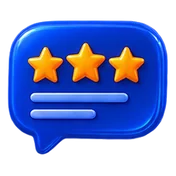
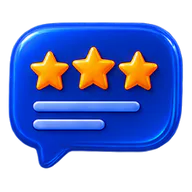
Add glyph illustrations: empty states, bookings, listings, AI features, property types
63 new webp glyph illustrations for empty states (inbox, calendar,
payments, search, etc), booking statuses, listing states, AI feature
icons, and property type icons. Updated glyphs registry.

diff --git a/apps/web/src/design-system/icons/glyphs.ts b/apps/web/src/design-system/icons/glyphs.ts
@@ -31,22 +31,25 @@ export const GLYPHS = [
 export type GlyphName = (typeof GLYPHS)[number];
 
 /*
- * A SMALL WEBP FOR THE PLAIN IMAGE SPOTS (performance audit, 7 November
- * 2026). A plain `<img>` gets no resizing from the image optimiser, so the
- * listing page's empty reviews state fetched the whole 249px PNG (57.6 KB)
- * to draw it at 88px. A glyph named here also ships as a 176px WebP (88px at
- * twice the density, 7.8 KB), which `glyphSrc` hands out. `glyphMasterSrc`
- * stays the full PNG for `Icon3D`, whose optimiser cuts its own sizes and
- * may draw a glyph at 144px or more.
+ * A SMALL WEBP FOR THE PLAIN IMAGE SPOTS (performance audit, 7 and 8
+ * November 2026). A plain `<img>` gets no resizing from the image optimiser,
+ * so the listing page's empty reviews state fetched the whole 249px PNG
+ * (57.6 KB) to draw it at 88px, and every other glyph in an empty state, a
+ * tracker or the in-app banner did the same (55 to 124 KB each, drawn at 24
+ * to 96px). Every glyph now also ships as a 192px WebP (96px, the largest
+ * plain spot, at twice the density; 651 KB for all 64 against 4.98 MB of
+ * PNG, about 10 KB each, near lossless against the PNG scaled to 192px),
+ * which `glyphSrc` hands out. `glyphMasterSrc` stays the full PNG for
+ * `Icon3D`, whose optimiser cuts its own sizes and may draw a glyph at 144px
+ * or more; the PNGs stay for it and for anything outside this app that
+ * names them. Both held by `glyph-files.test.ts`.
  */
-const SMALL_WEBP: ReadonlySet<GlyphName> = new Set<GlyphName>(["empty-reviews"]);
-
 export function glyphMasterSrc(name: GlyphName): string {
   return `/brand/glyphs/${name}.png`;
 }
 
 export function glyphSrc(name: GlyphName): string {
-  return SMALL_WEBP.has(name) ? `/brand/glyphs/${name}.webp` : glyphMasterSrc(name);
+  return `/brand/glyphs/${name}.webp`;
 }
 
 /** A listing's status as its glyph. Unknown statuses draw nothing. */

diff --git a/apps/web/src/design-system/icons/glyph-files.test.ts b/apps/web/src/design-system/icons/glyph-files.test.ts
@@ -1,0 +1,31 @@
+import { existsSync, readFileSync, statSync } from "node:fs";
+import { join } from "node:path";
+import { describe, expect, it } from "vitest";
+import { GLYPHS, glyphMasterSrc, glyphSrc } from "./glyphs";
+
+/**
+ * Every glyph ships twice (performance audit, 8 November 2026): the full PNG
+ * master for `Icon3D`'s optimiser, and a 192px WebP for the plain `<img>`
+ * spots, which no optimiser resizes. A glyph added without its WebP would
+ * draw nothing in an empty state, so both are checked here.
+ */
+const PUBLIC = join(__dirname, "../../../public");
+
+/** The canvas of a WebP file, from its VP8X header (sharp writes one for any image with alpha). */
+function webpSize(buf: Buffer): { w: number; h: number } | null {
+  if (buf.toString("ascii", 0, 4) !== "RIFF" || buf.toString("ascii", 8, 12) !== "WEBP") return null;
+  if (buf.toString("ascii", 12, 16) !== "VP8X") return null;
+  return { w: 1 + buf.readUIntLE(24, 3), h: 1 + buf.readUIntLE(27, 3) };
+}
+
+describe("glyph files", () => {
+  it.each(GLYPHS)("%s has its PNG master and a 192px WebP under 32 KB", (name) => {
+    expect(existsSync(join(PUBLIC, glyphMasterSrc(name)))).toBe(true);
+    const file = join(PUBLIC, glyphSrc(name));
+    expect(glyphSrc(name).endsWith(".webp")).toBe(true);
+    const size = webpSize(readFileSync(file));
+    expect(size).not.toBeNull();
+    expect(size!.w).toBe(192);
+    expect(statSync(file).size).toBeLessThan(32 * 1024);
+  });
+});
